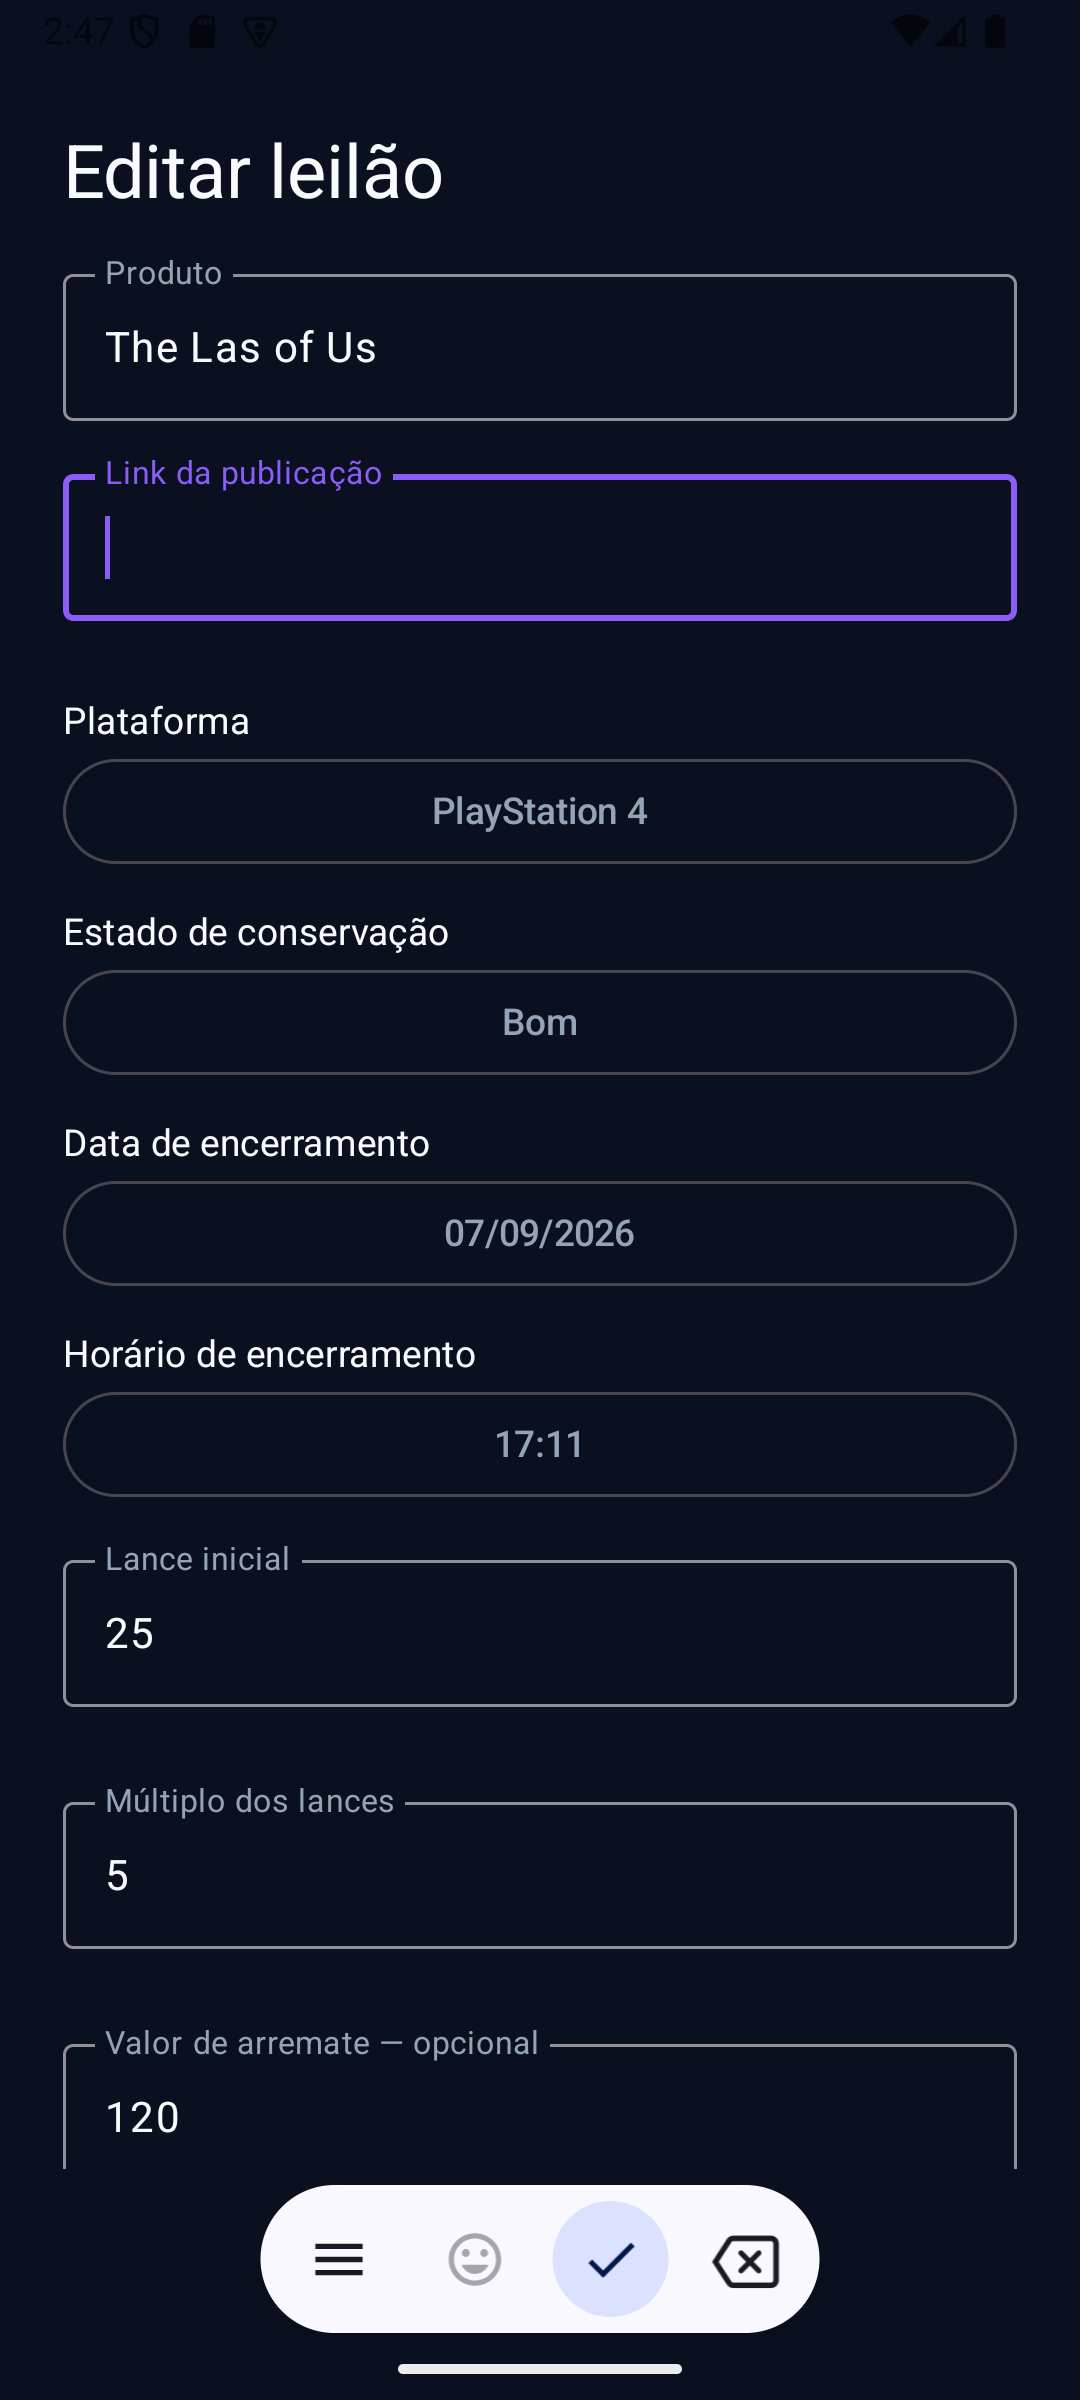
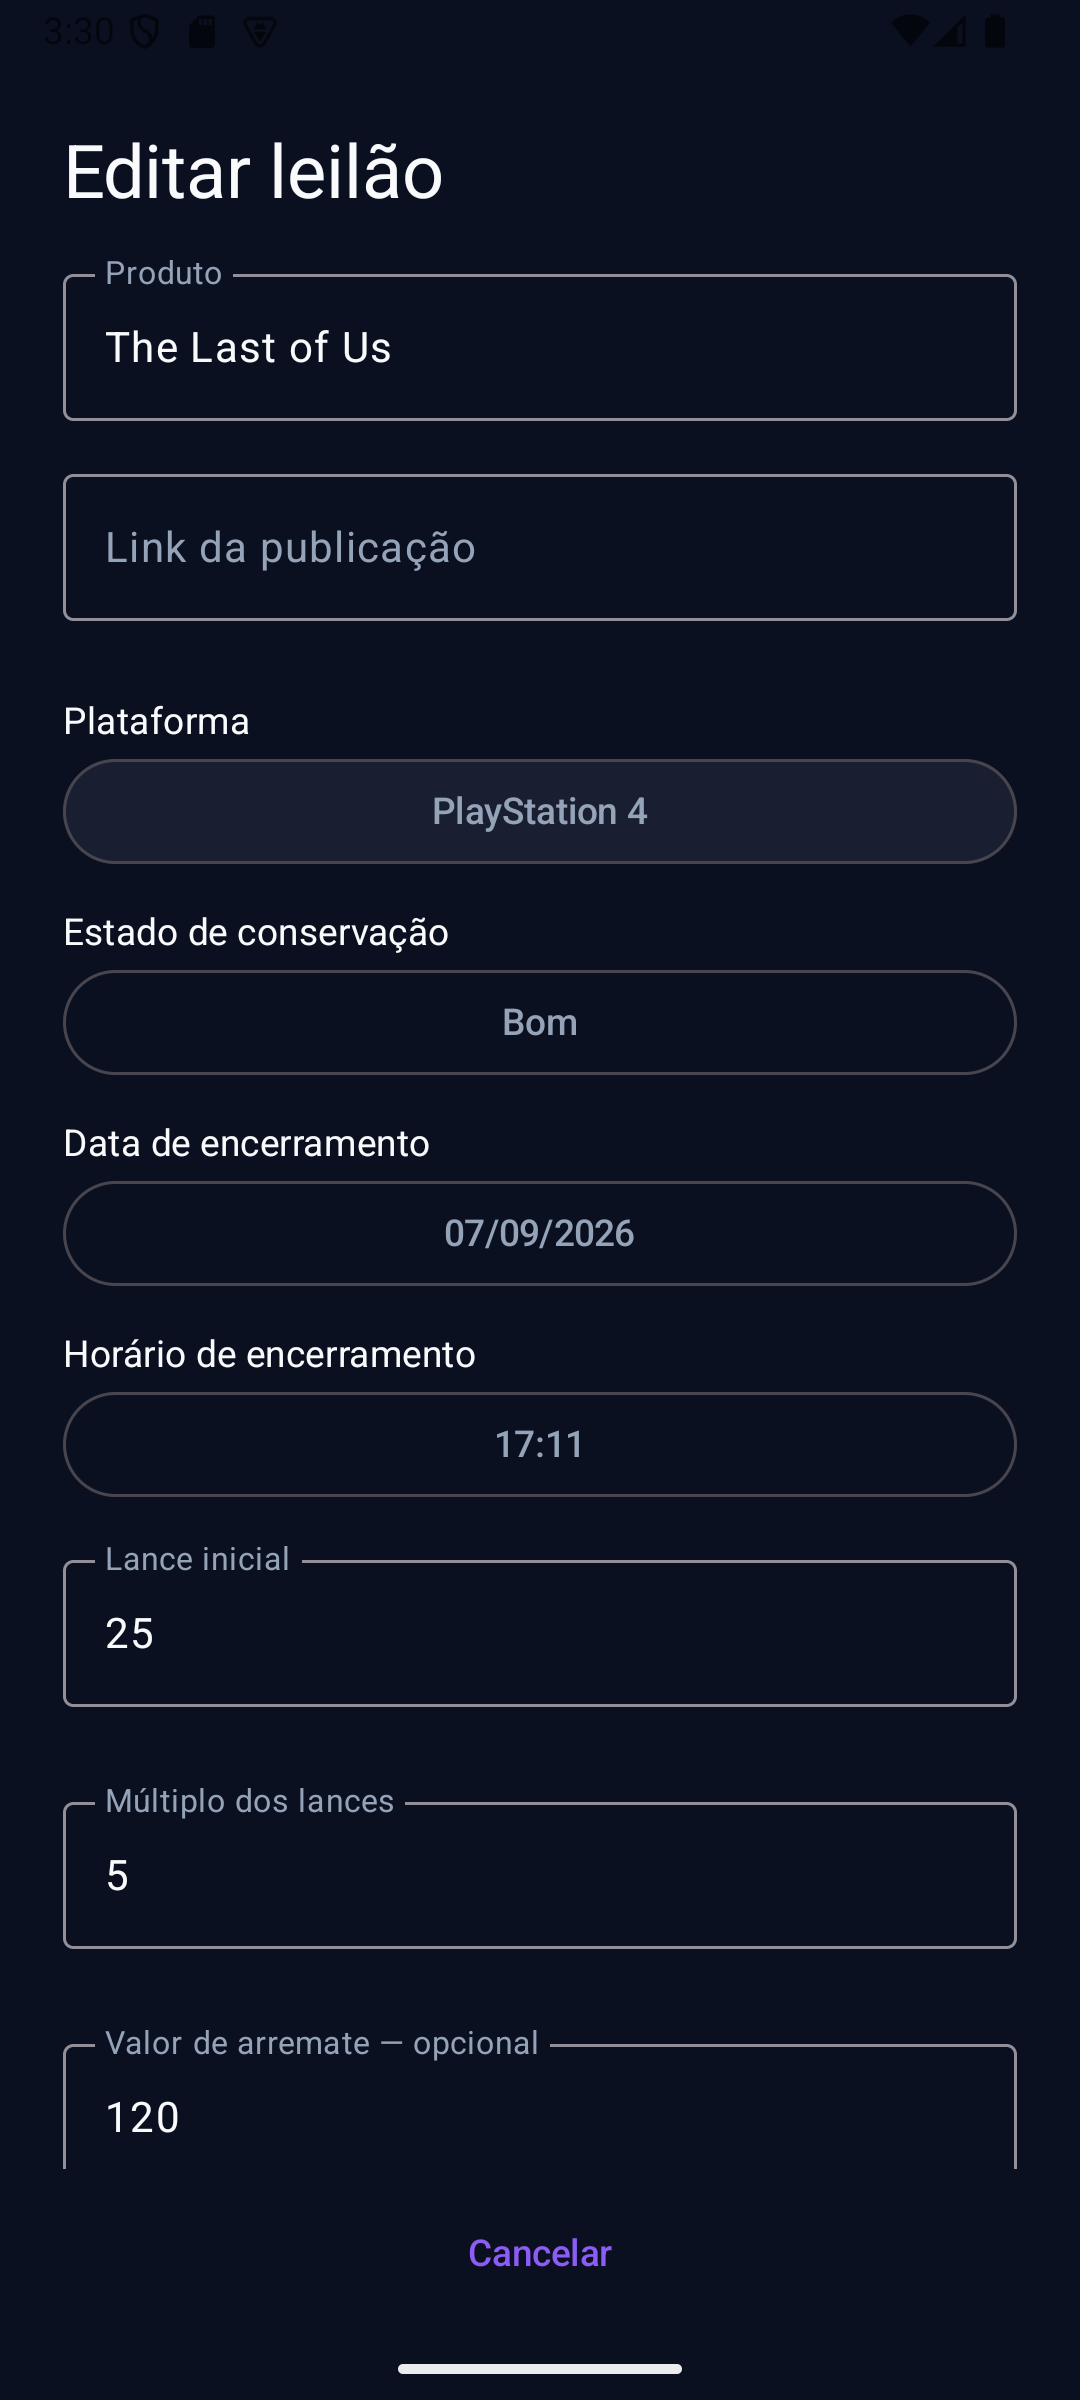
docs: update cadastro screenshot

diff --git a/docs/index.html b/docs/index.html
@@ -181,7 +181,7 @@
                 <article class="screenshot-card">
                     <div class="phone-frame">
                         <img
-                                src="screenshots/04-cadastro-leilao.png"
+                                src="screenshots/04-cadastro-leilao.png?v=2"
                                 alt="Tela de cadastro de leilÃ£o"
                         >
                     </div>
@@ -340,3 +340,4 @@
 
 </body>
 </html>
+
